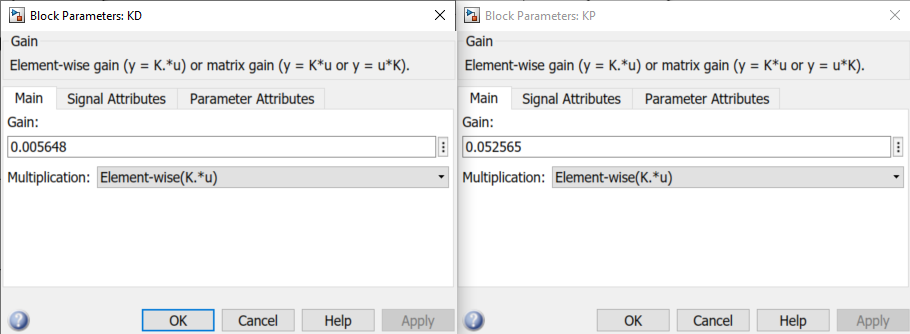
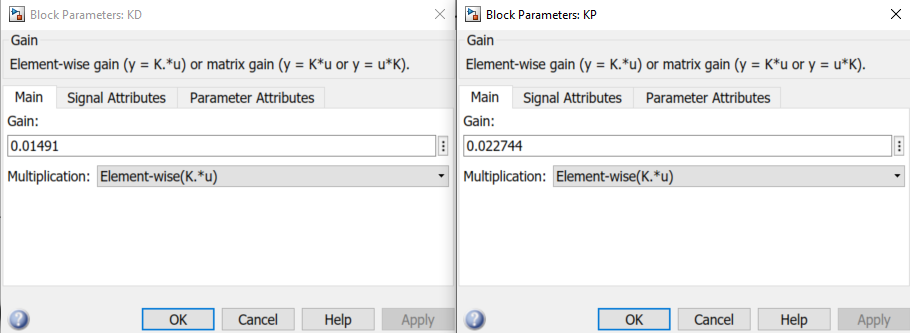
Se agrego controlador PID

diff --git a/Tareas_Laboret/Tarea_N2/Scarlatto_Manuel_Tarea_n°2.md b/Tareas_Laboret/Tarea_N2/Scarlatto_Manuel_Tarea_n°2.md
@@ -214,9 +214,9 @@ $$C(z)=K*\frac{z-c}{z}; K=K_p+K_d; c=\frac{K_d}{K_p+K_d}$$
 
 ![Compensador](<Imagenes Tarea 2/Compensador.png>)
 
-![Lugar_de_Raices_PI](<Imagenes Tarea 2/Lugar_de_Raices_PI.png>)
+![Lugar_de_Raices_PD](<Imagenes Tarea 2/Lugar_de_Raices_PI.png>)
 
-![Respuesta_al_Escalon_PI](<Imagenes Tarea 2/Respuesta_al_Escalon_PI.png>)
+![Respuesta_al_Escalon_PD](<Imagenes Tarea 2/Respuesta_al_Escalon_PI.png>)
 
 Como se puede observar, se ha incorporado un controlador PD discreto con un cero ubicado en 𝑧 = − 0.396, lo que permite modificar la forma del lugar geométrico de las raíces. De esta manera, se logró aproximar los polos dominantes del sistema en lazo cerrado a la región deseada del plano-z, cumpliendo con las especificaciones dinámicas establecidas.
 
@@ -282,16 +282,10 @@ Tenemos que
 
 $$C(z)=K*\frac{z-c}{z}=0.037654*\frac{z+0.396}{z}$$
 
-Desarrollando la expresión y aplicando las relaciones estándar del controlador PD:
-
-$$
-K_d = b_1 \cdot T, \quad K_p = b_0 + \frac{K_d}{T}
-$$
-
 se obtuvieron:
 
 $$
-K_p = 0.052565, \quad K_d = 0.005648
+K_p = 0.022744, K_d = 0.001491
 $$
 
 Ambos valores son positivos y válidos para una implementación física del controlador PD.
@@ -302,13 +296,13 @@ Una vez obtenidos los valores del controlador, pasamos a simular el sistema en S
 
 ![Simulink_Diagrama](<Imagenes Tarea 2/Simulink_Diagrama.png>)
 
-Una vez abierto el archivo, ponemos en cero el $K_d$ ya que no es un controlador derivativo, y cargamos los valores previamente calculados a $K_p$ y $K_i$:
+Una vez abierto el archivo, ponemos en cero el $K_i$ ya que no es un controlador derivativo, y cargamos los valores previamente calculados a $K_p$ y $K_d$:
 
 ![Parametros_K](<Imagenes Tarea 2/Parametros_K.png>)
 
 Luego configuramos la funcion de transferencia:
 
-![alt text](<Imagenes Tarea 2/Parametros_FT.png>)
+![Parametros_FT](<Imagenes Tarea 2/Parametros_FT.png>)
 
 Se configura el Step y los ZOH.
 
@@ -333,5 +327,98 @@ Al simular el sistema, obtenemos los siguientes resultados:
 ### Conclusión del controlador PD
 
 El controlador PD diseñado logró mejorar significativamente la respuesta del sistema, reduciendo el sobrepaso y acelerando el tiempo de establecimiento. La salida presenta un comportamiento estable con bajo sobrepaso, y el error se reduce rápidamente, manteniéndose cercano a cero en régimen permanente. Esto confirma que el controlador cumple con los requisitos dinámicos planteados.
+
+### Controlador PID
+
+Con los parámetros ya fijados, se diseña un controlador PID agregando un polo en 1 (acción integrativa) y dos ceros ajustables. Estos ceros se colocan estratégicamente para que la ganancia del sistema pueda alcanzar el valor deseado en la intersección del lugar geométrico con el círculo especificado (de acuerdo con los requisitos de amortiguamiento y tiempo de respuesta).
+
+Una vez posicionados los ceros, se ajusta la ganancia K del controlador de manera que el polo dominante del sistema cerrado quede ubicado sobre la intersección deseada.
+
+El controlador PID tiene la siguiente forma general en tiempo discreto:
+
+$$C(z) = K\frac{(z - z_1)(z - z_2)}{z(z - 1)}$$
+
+![Compensador_PID](<Imagenes Tarea 2/Compensador_PID.png>)
+
+![Lugar_de_Raices_PID](<Imagenes Tarea 2/Lugar_de_Raices_PID.png>)
+
+![Respuesta_al_Escalon_PID](<Imagenes Tarea 2/Respuesta_al_Escalon_PID.png>)
+
+Como se puede observar, se ha incorporado un controlador PID, el cual incluye un polo 1 para introducir la acción integrativa, y dos ceros ajustables ubicados en z1 = 0.308 y z2 = 0.861, respectivamente. Esta estructura permite modificar la forma del LR y redirigir la trayectoria de los polos del sistema en lazo cerrado.
+
+Una vez fijados los ceros, se ajustó la ganancia K = 0.079 para colocar los polos sobre la intersección con la curva de diseño. Como resultado, la respuesta al escalón muestra una dinámica mucho más adecuada: el sobrepaso es de aproximadamente 5.58 %, lo cual está dentro de los márgenes especificados, y el tiempo de establecimiento es de 1.93 s, cumpliendo con los criterios de desempeño dinámico establecidos para el sistema.
+
+Exportamos el controlador, y obtenemos:
+
+```
+    0.11908 (z-0.3082) (z-0.8607)
+C = -----------------------------
+              z (z-1)
+```
+
+La función a LC nos queda:
+
+```
+      0.24298 (z-0.1754) (z-0.3082) (z-0.8607)
+F = ----------------------------------------------
+    (z+0.02372) (z-0.8608) (z^2 - 1.418z + 0.5537)
+```
+
+Siendo la respuesta al escalon:
+
+![Rta_Escalon_PID](<Imagenes Tarea 2/Rta_Escalon_PID.png>)
+
+Se observa que el sistema se asemeja al calculado.
+
+```
+pole(F)
+
+ans =
+
+  -0.0237 + 0.0000i
+   0.7092 + 0.2254i
+   0.7092 - 0.2254i
+   0.8608 + 0.0000i
+
+```
+```
+zero(F)
+
+ans =
+
+    0.1754
+    0.3082
+    0.8607
+```
+
+![Pole_Zero_Map_PID](<Imagenes Tarea 2/Pole_Zero_Map_PID.png>)
+
+Recordando la función de transferencia general del controlador PID en tiempo discreto:
+
+$$C(z) = K \frac{(z - z_1)(z - z_2)}{z(z - 1)} = 0.11908 \frac{(z-0.3082)(z-0.8607)}{z(z-1)}$$
+
+Luego:
+
+$$K = K_P + K_D + K_I$$
+$$z_1 + z_2 = b = \frac{K_P + 2*K_D}{K}$$
+$$z_1*z_2 = c = \frac{K_D}{K}$$
+
+Por lo tanto:
+
+$$K_D = 0.03159$$
+$$K_P = 0.07602$$
+$$K_I = 0.01148$$
+
+- Simulación en Simulink
+
+![Simulink_PID](<Imagenes Tarea 2/Simulink_PID.png>)
+
+Respuesta del sistema:
+
+![Simulink_Rta_PID](<Imagenes Tarea 2/Simulink_Rta_PID.png>)
+
+- Conclusión
+
+El controlador PID diseñado cumple con el tiempo de establecimiento requerido (1.93 s < 2 s), aunque en Simulink no presenta el sobrepaso del 5.58 % observado en la simulación teórica. Esta diferencia se debe a la implementación discreta del controlador, filtrado implícito en la acción derivativa y aproximaciones numéricas. Aun así, el sistema responde de forma estable y precisa, validando el diseño realizado.
 
 ---
